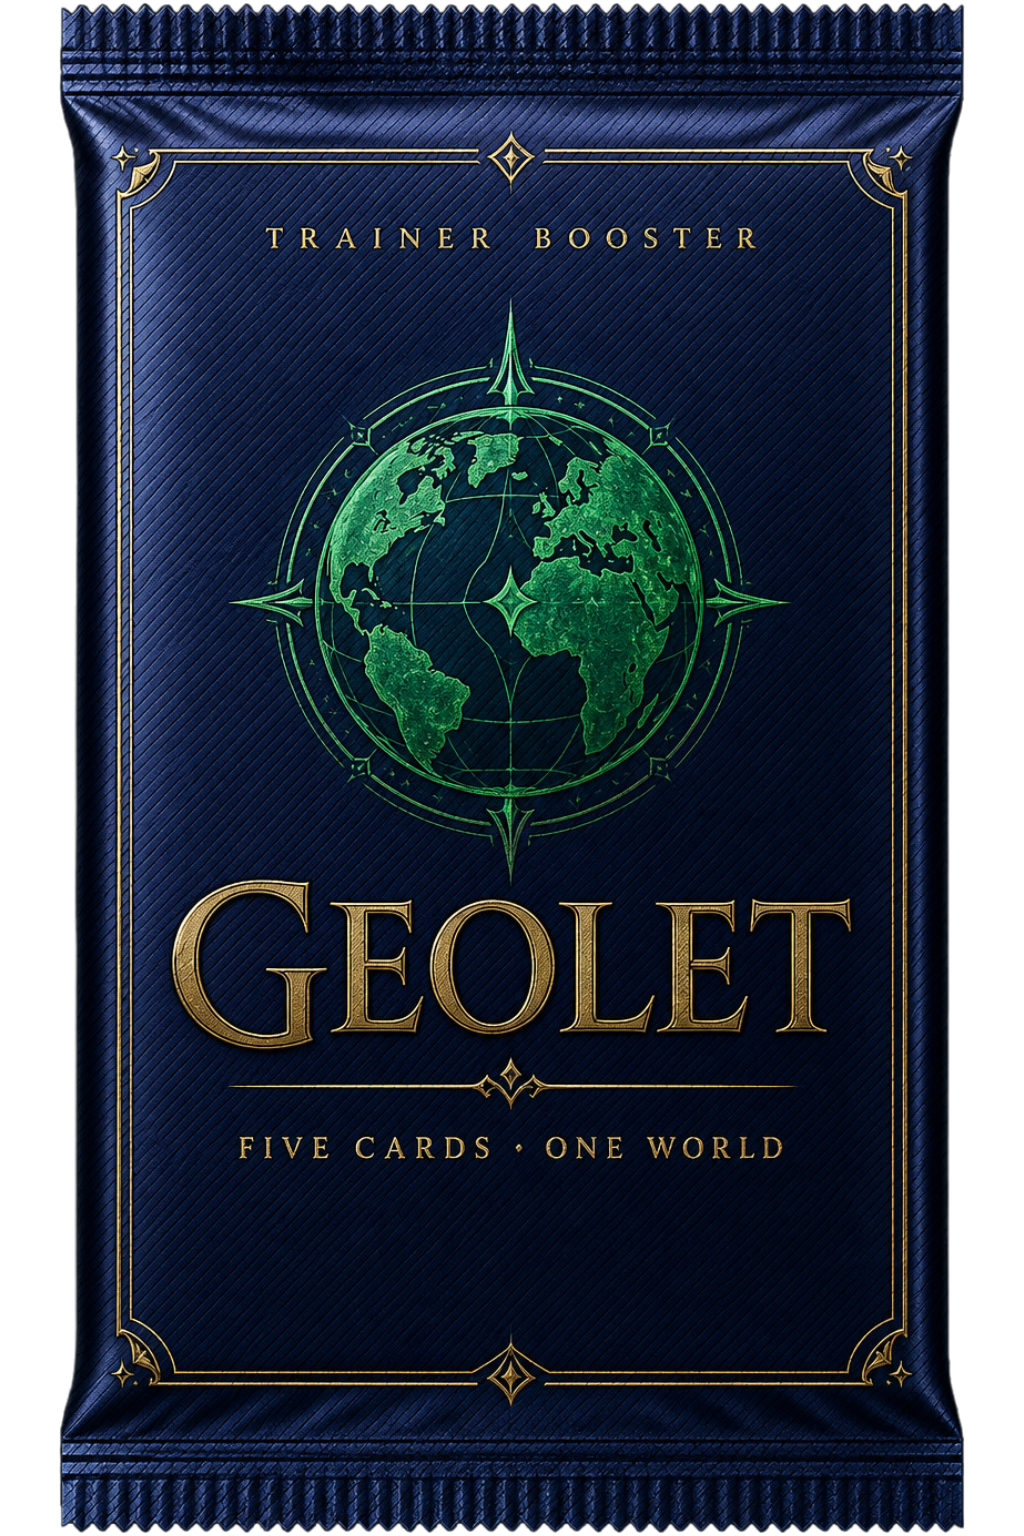
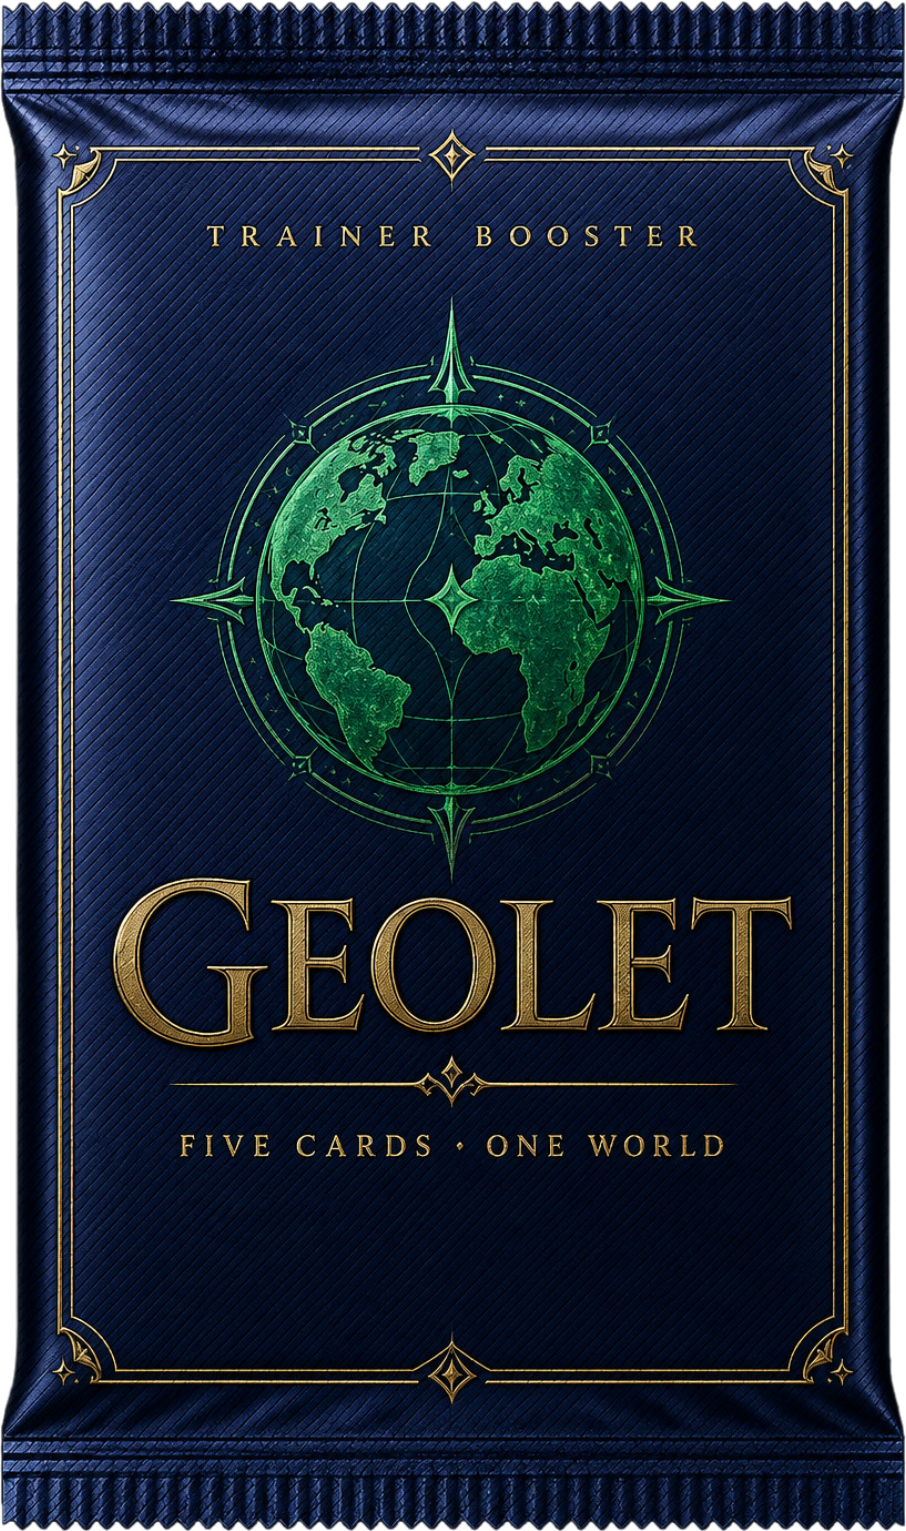
fix: Align seam to pack silhouette, restore buttonless gyroscope tilt
- pack.png cropped to its alpha bounding box (was 5.8% transparent
  margin each side, making the tear line wider than the visible pouch);
  container aspect updated to 906:1531
- Gyroscope tilt restored on touch devices without a dedicated button:
  Android attaches immediately, iOS requests motion permission on the
  first touch; touch-position tilt and ambient sway remain as fallback

diff --git a/src/app/unpack/unpack-experience.tsx b/src/app/unpack/unpack-experience.tsx
@@ -35,6 +35,7 @@ const MINOR_CARDS = [
 function useTilt(stageRef: React.RefObject<HTMLDivElement | null>) {
   const target = useRef({ x: 0, y: 0 });
   const sway = useRef(false);
+  const lastPointer = useRef(0);
   const [coarse, setCoarse] = useState(false);
 
   useEffect(() => {
@@ -78,6 +79,7 @@ function useTilt(stageRef: React.RefObject<HTMLDivElement | null>) {
     /* touch positions cluster around the pack, so amplify them to get a full tilt range */
     const gain = window.matchMedia('(pointer: coarse)').matches ? 1.7 : 1;
     const onMove = (e: PointerEvent) => {
+      lastPointer.current = performance.now();
       target.current.x = Math.max(-1, Math.min(1, ((e.clientX / window.innerWidth) * 2 - 1) * gain));
       target.current.y = Math.max(-1, Math.min(1, ((e.clientY / window.innerHeight) * 2 - 1) * gain));
     };
@@ -93,6 +95,47 @@ function useTilt(stageRef: React.RefObject<HTMLDivElement | null>) {
       window.removeEventListener('pointerdown', onMove);
       window.removeEventListener('pointerup', onRelease);
       window.removeEventListener('pointercancel', onRelease);
+    };
+  }, []);
+
+  /* Gyroscope tilt with no dedicated button: Android attaches straight away;
+     iOS asks for motion permission on the first touch (a valid user gesture).
+     Pointer input wins while recently active; the ambient sway retires once
+     real gyro data arrives. Falls back to touch + sway when denied/absent. */
+  useEffect(() => {
+    if (!window.matchMedia('(pointer: coarse)').matches) return;
+    const DOE = window.DeviceOrientationEvent as
+      | (typeof DeviceOrientationEvent & { requestPermission?: () => Promise<string> })
+      | undefined;
+    if (!DOE) return;
+    let attached = false;
+    let baseBeta: number | null = null;
+    const onOrient = (e: DeviceOrientationEvent) => {
+      if (e.beta === null || e.gamma === null) return;
+      sway.current = false;
+      if (performance.now() - lastPointer.current < 600) return;
+      if (baseBeta === null) baseBeta = e.beta;
+      target.current.x = Math.max(-1, Math.min(1, e.gamma / 24));
+      target.current.y = Math.max(-1, Math.min(1, (e.beta - baseBeta) / 24));
+    };
+    const attach = () => {
+      if (attached) return;
+      attached = true;
+      window.addEventListener('deviceorientation', onOrient);
+    };
+    const askOnGesture = () => {
+      window.removeEventListener('pointerdown', askOnGesture);
+      DOE.requestPermission?.()
+        .then((res) => {
+          if (res === 'granted') attach();
+        })
+        .catch(() => {});
+    };
+    if (typeof DOE.requestPermission === 'function') window.addEventListener('pointerdown', askOnGesture);
+    else attach();
+    return () => {
+      window.removeEventListener('pointerdown', askOnGesture);
+      window.removeEventListener('deviceorientation', onOrient);
     };
   }, []);
 

diff --git a/src/app/unpack2/unpack2-experience.tsx b/src/app/unpack2/unpack2-experience.tsx
@@ -39,6 +39,7 @@ const MINOR_CARDS = [
 function useTilt(stageRef: React.RefObject<HTMLDivElement | null>) {
   const target = useRef({ x: 0, y: 0 });
   const sway = useRef(false);
+  const lastPointer = useRef(0);
   const [coarse, setCoarse] = useState(false);
 
   useEffect(() => {
@@ -80,6 +81,7 @@ function useTilt(stageRef: React.RefObject<HTMLDivElement | null>) {
   useEffect(() => {
     const gain = window.matchMedia('(pointer: coarse)').matches ? 1.7 : 1;
     const onMove = (e: PointerEvent) => {
+      lastPointer.current = performance.now();
       target.current.x = Math.max(-1, Math.min(1, ((e.clientX / window.innerWidth) * 2 - 1) * gain));
       target.current.y = Math.max(-1, Math.min(1, ((e.clientY / window.innerHeight) * 2 - 1) * gain));
     };
@@ -95,6 +97,47 @@ function useTilt(stageRef: React.RefObject<HTMLDivElement | null>) {
       window.removeEventListener('pointerdown', onMove);
       window.removeEventListener('pointerup', onRelease);
       window.removeEventListener('pointercancel', onRelease);
+    };
+  }, []);
+
+  /* Gyroscope tilt with no dedicated button: Android attaches straight away;
+     iOS asks for motion permission on the first touch (a valid user gesture).
+     Pointer input wins while recently active; the ambient sway retires once
+     real gyro data arrives. Falls back to touch + sway when denied/absent. */
+  useEffect(() => {
+    if (!window.matchMedia('(pointer: coarse)').matches) return;
+    const DOE = window.DeviceOrientationEvent as
+      | (typeof DeviceOrientationEvent & { requestPermission?: () => Promise<string> })
+      | undefined;
+    if (!DOE) return;
+    let attached = false;
+    let baseBeta: number | null = null;
+    const onOrient = (e: DeviceOrientationEvent) => {
+      if (e.beta === null || e.gamma === null) return;
+      sway.current = false;
+      if (performance.now() - lastPointer.current < 600) return;
+      if (baseBeta === null) baseBeta = e.beta;
+      target.current.x = Math.max(-1, Math.min(1, e.gamma / 24));
+      target.current.y = Math.max(-1, Math.min(1, (e.beta - baseBeta) / 24));
+    };
+    const attach = () => {
+      if (attached) return;
+      attached = true;
+      window.addEventListener('deviceorientation', onOrient);
+    };
+    const askOnGesture = () => {
+      window.removeEventListener('pointerdown', askOnGesture);
+      DOE.requestPermission?.()
+        .then((res) => {
+          if (res === 'granted') attach();
+        })
+        .catch(() => {});
+    };
+    if (typeof DOE.requestPermission === 'function') window.addEventListener('pointerdown', askOnGesture);
+    else attach();
+    return () => {
+      window.removeEventListener('pointerdown', askOnGesture);
+      window.removeEventListener('deviceorientation', onOrient);
     };
   }, []);
 

diff --git a/src/app/unpack2/unpack2.module.css b/src/app/unpack2/unpack2.module.css
@@ -160,7 +160,8 @@
   --damp: 1;
   position: relative;
   width: var(--pack-w);
-  aspect-ratio: 2 / 3;
+  /* matches the alpha-cropped pack artwork exactly, so seam and hit zones align */
+  aspect-ratio: 906 / 1531;
   transform-style: preserve-3d;
   transform: rotateX(calc(var(--ty) * var(--damp) * -4.5deg)) rotateY(calc(var(--tx) * var(--damp) * 6deg));
   will-change: transform;
